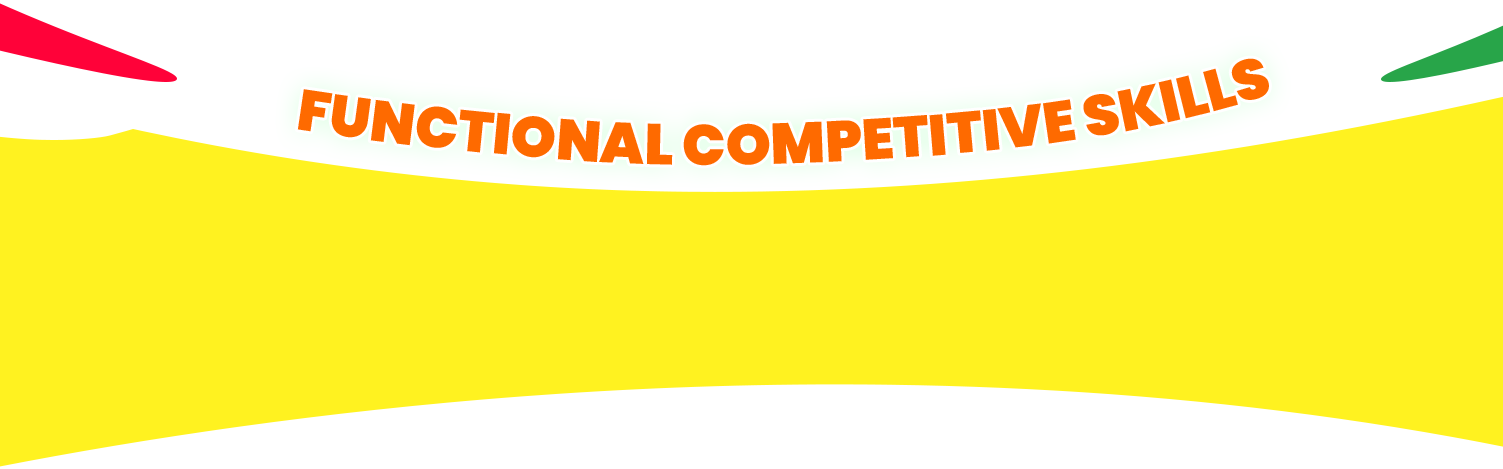
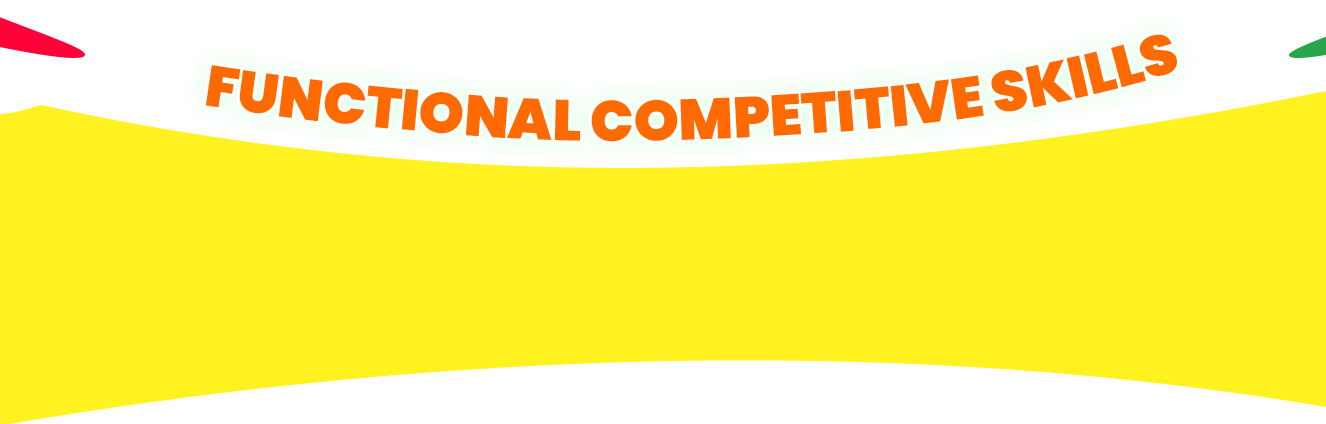
update image

diff --git a/lib/presentation/landing/mobile/essence/widget.dart b/lib/presentation/landing/mobile/essence/widget.dart
@@ -262,7 +262,7 @@ class _EssenceWidgetState extends State<EssenceWidget> {
                             fit: BoxFit.fitWidth,
                           ),
                     Positioned(
-                      bottom: 30,
+                      bottom: 35,
                       right: 10,
                       left: 10,
                       child: Text(
